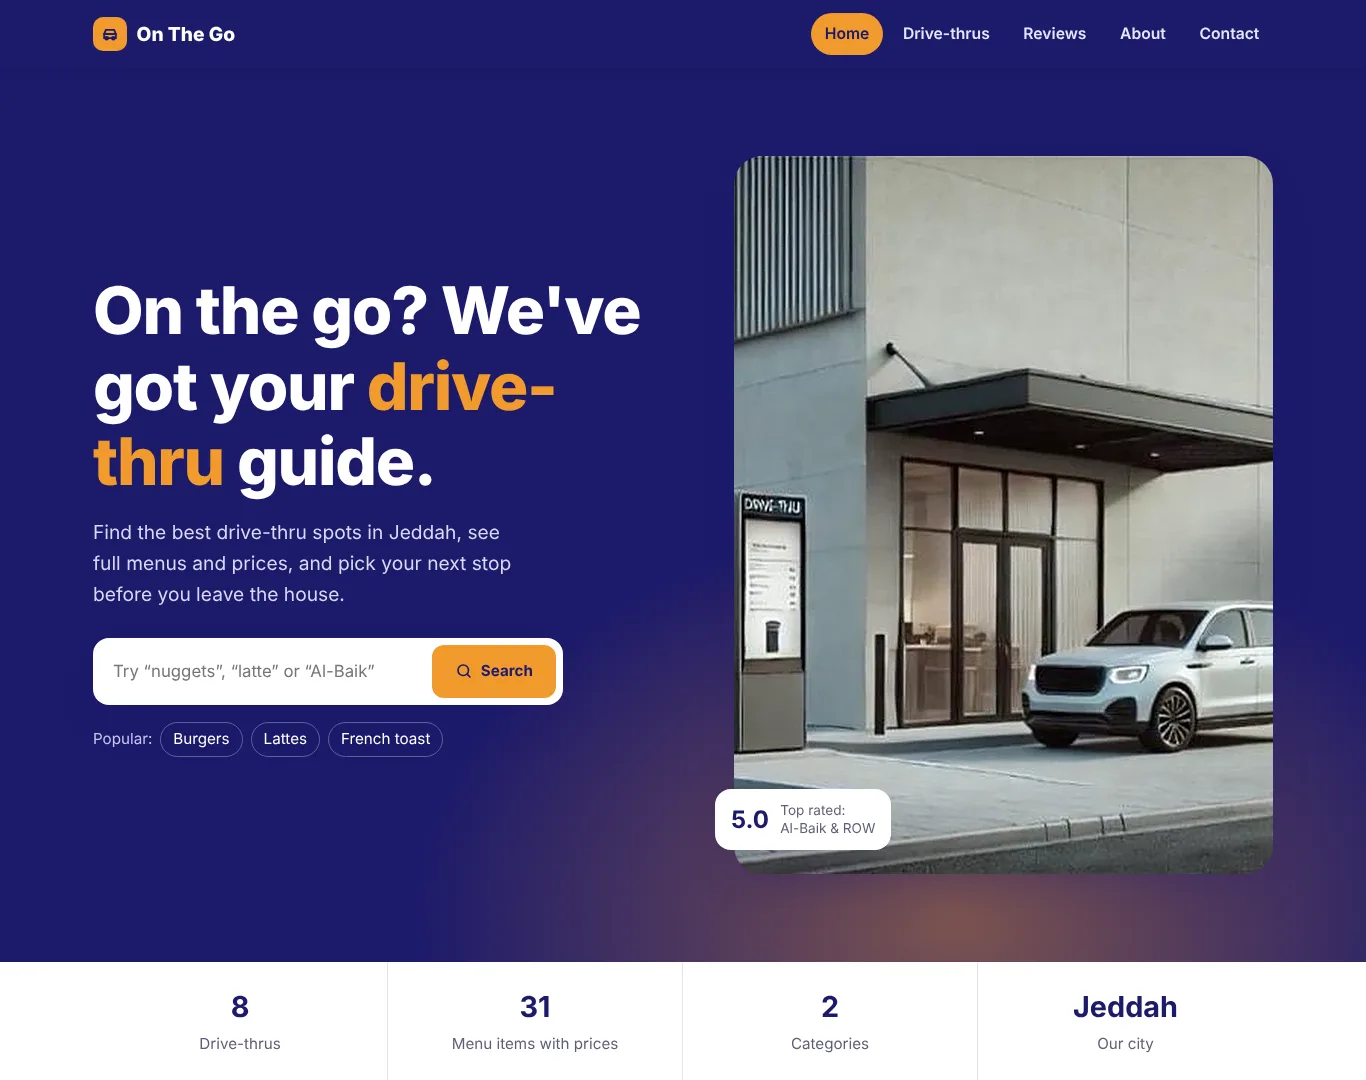
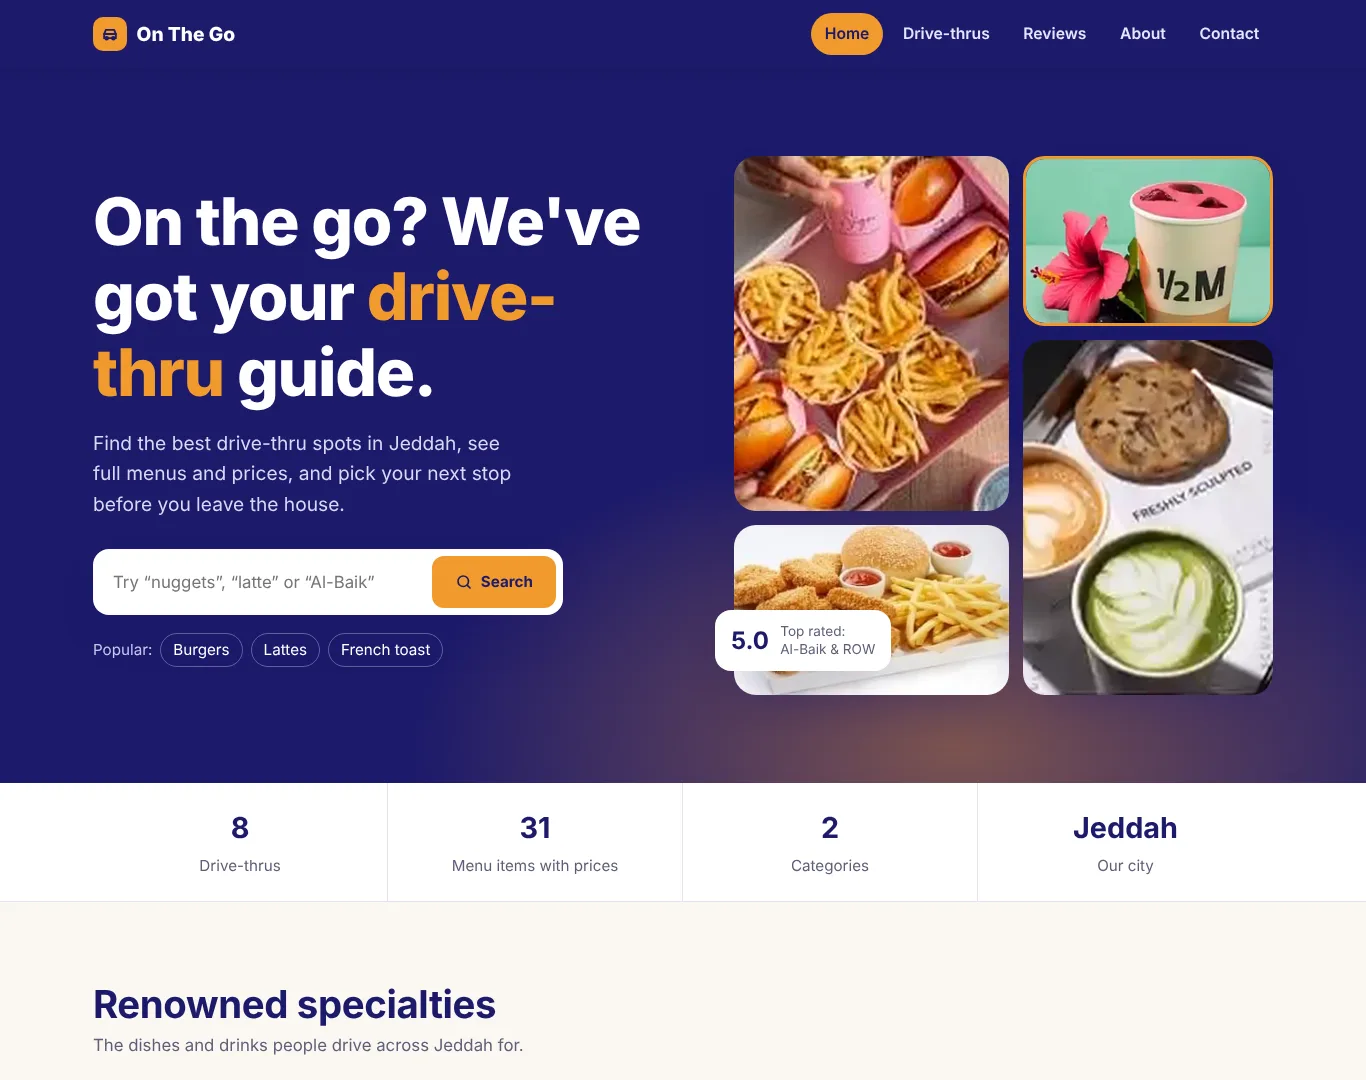
Replace hero photo with a food collage
Claude-Session: https://claude.ai/code/session_01SXnftuqDdsKkDovQjTgwmq

diff --git a/css/style.css b/css/style.css
@@ -89,6 +89,19 @@ h3 { font-size: 1.2rem; font-weight: 700; }
 .hero-quick a:hover { background: rgba(255,255,255,.1); }
 .hero-photo { position: relative; }
 .hero-photo img { width: 100%; aspect-ratio: 1; object-fit: cover; border-radius: 28px; box-shadow: var(--shadow-lg); }
+.hero-collage { display: grid; grid-template-columns: 1.15fr 1fr; grid-template-rows: 1fr 1fr; gap: 14px; aspect-ratio: 1; }
+.hero-collage img { width: 100%; height: 100%; object-fit: cover; border-radius: 22px; box-shadow: var(--shadow-lg); aspect-ratio: auto !important; }
+.hero-collage .c1 { grid-row: 1 / 3; }
+.hero-collage .c2 { border: 3px solid var(--sunset); }
+.hero-collage .c3 { display: none; }
+.hero-collage .c4 { grid-column: 2; grid-row: 2; }
+@media (min-width: 961px) {
+  .hero-collage { grid-template-columns: 1.1fr 1fr; grid-template-rows: 1fr 1fr 1fr; }
+  .hero-collage .c1 { grid-row: 1 / 3; }
+  .hero-collage .c2 { grid-row: 1 / 2; }
+  .hero-collage .c4 { display: block; grid-row: 2 / 4; }
+  .hero-collage .c3 { display: block; grid-column: 1; grid-row: 3; }
+}
 .hero-badge {
   position: absolute; left: -1.2rem; bottom: 1.5rem; background: #fff; color: var(--ink); border-radius: 16px; padding: .8rem 1rem;
   box-shadow: var(--shadow-lg); display: flex; align-items: center; gap: .7rem;
@@ -282,7 +295,7 @@ textarea.field { resize: vertical; min-height: 110px; }
 @media (max-width: 960px) {
   .hero-grid, .about-grid, .review-layout, .contact-grid { grid-template-columns: 1fr; }
   .hero-photo { max-width: 560px; }
-  .hero-photo img { aspect-ratio: 16 / 10; }
+  .hero-collage { aspect-ratio: 16 / 11; }
   .features { grid-template-columns: 1fr 1fr; }
   .form-card { position: static; }
 }

diff --git a/index.html b/index.html
@@ -38,8 +38,11 @@
               <a href="drive-thrus.html?q=french%20toast">French toast</a>
             </p>
           </div>
-          <div class="hero-photo">
-            <img src="images/drive-thru.webp" alt="A car pulling into a modern drive-thru lane" width="720" height="718" />
+          <div class="hero-photo hero-collage" aria-hidden="true">
+            <img class="c1" src="images/restaurants/sign-burger.webp" alt="" />
+            <img class="c2" src="images/specialties/iced-hibiscus.webp" alt="" />
+            <img class="c3" src="images/restaurants/al-baik.webp" alt="" />
+            <img class="c4" src="images/restaurants/sculpture.webp" alt="" />
             <div class="hero-badge"><strong>5.0</strong><span>Top rated:<br />Al-Baik &amp; ROW</span></div>
           </div>
         </div>

diff --git a/about.html b/about.html
@@ -30,7 +30,7 @@
       </section>
       <section class="section">
         <div class="wrap about-grid">
-          <img src="images/drive-thru.webp" alt="A modern drive-thru with a car at the window" loading="lazy" />
+          <img src="images/restaurants/sign-burger.webp" alt="A Sign Burger gathering box with burgers and fries" loading="lazy" />
           <div class="qa">
             <h2>What we offer</h2>
             <p>Whether you're on a road trip or just looking for a quick bite, we make it easy to find the perfect spot. Explore a list of drive-thru locations with their menus and prices, all designed for a seamless experience while you're on the go.</p>
